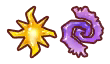
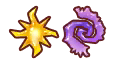
Shadow & Light

diff --git a/online-characters.html b/online-characters.html
@@ -139,7 +139,7 @@
 		<thead align="center" style="border-top-width: 0px;">
             </thead><thead align="center" style="border-top-width: 0px;">
                 <tr>
-                    <th><img src="/assets/elements/Shadow-Light.png" alt="Reveria Dive" style="width:35px;">Shadow &amp; Light</th>
+                    <th><img src="/assets/elements/Shadow-Light.png" alt="Reveria Dive" style="width:55px;">Shadow &amp; Light</th>
                 </tr>
             </thead>
 			<tbody>
